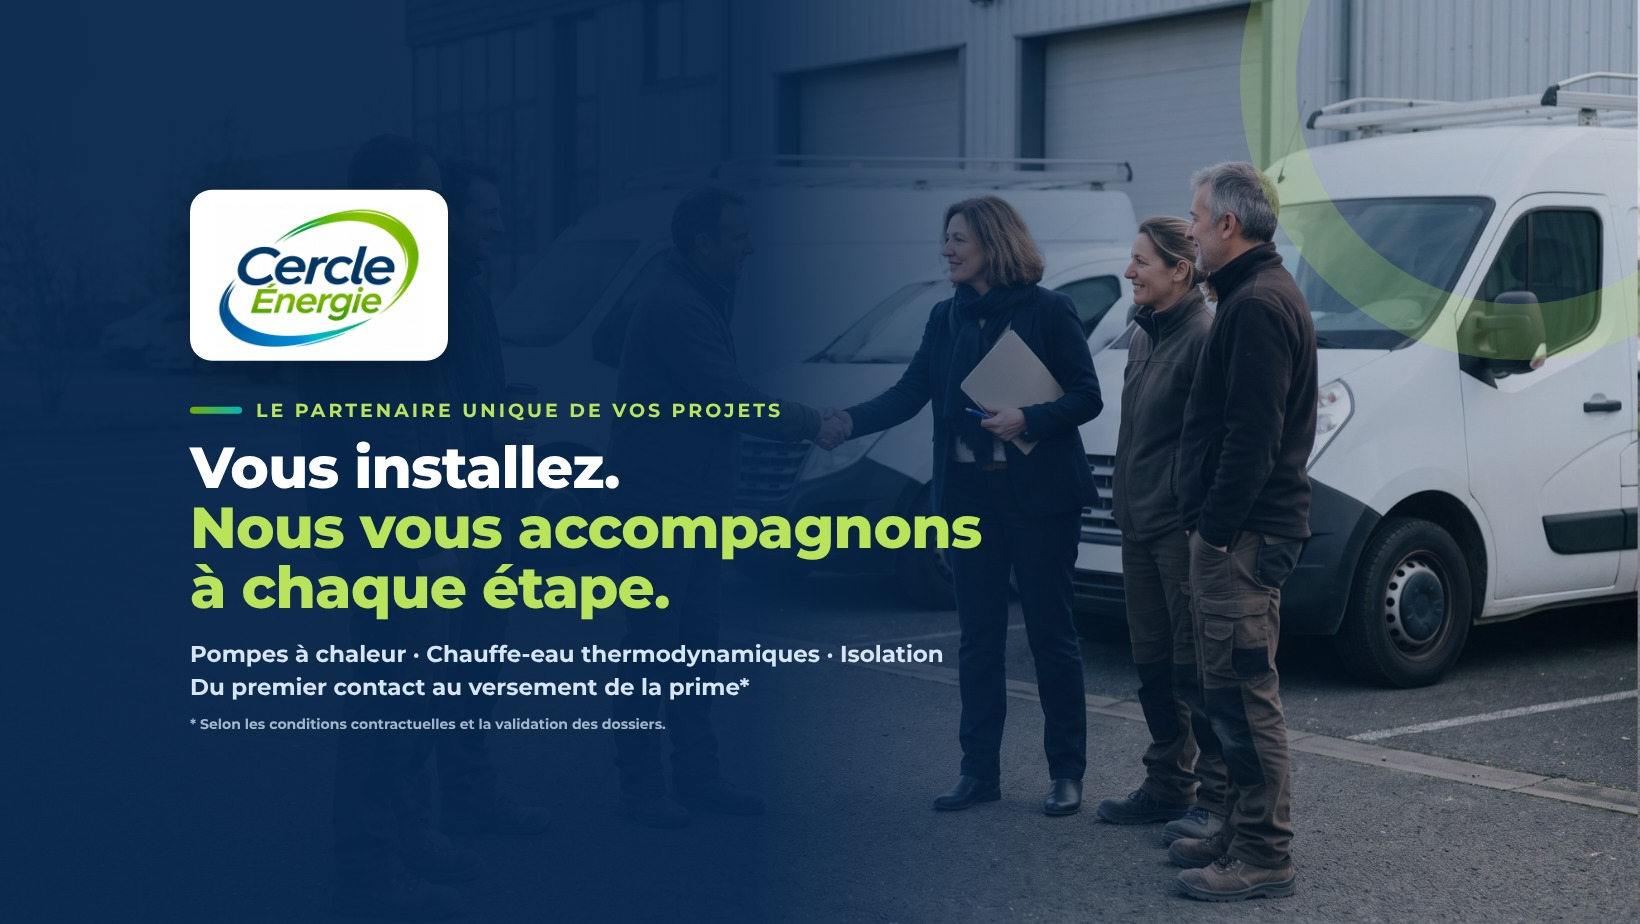
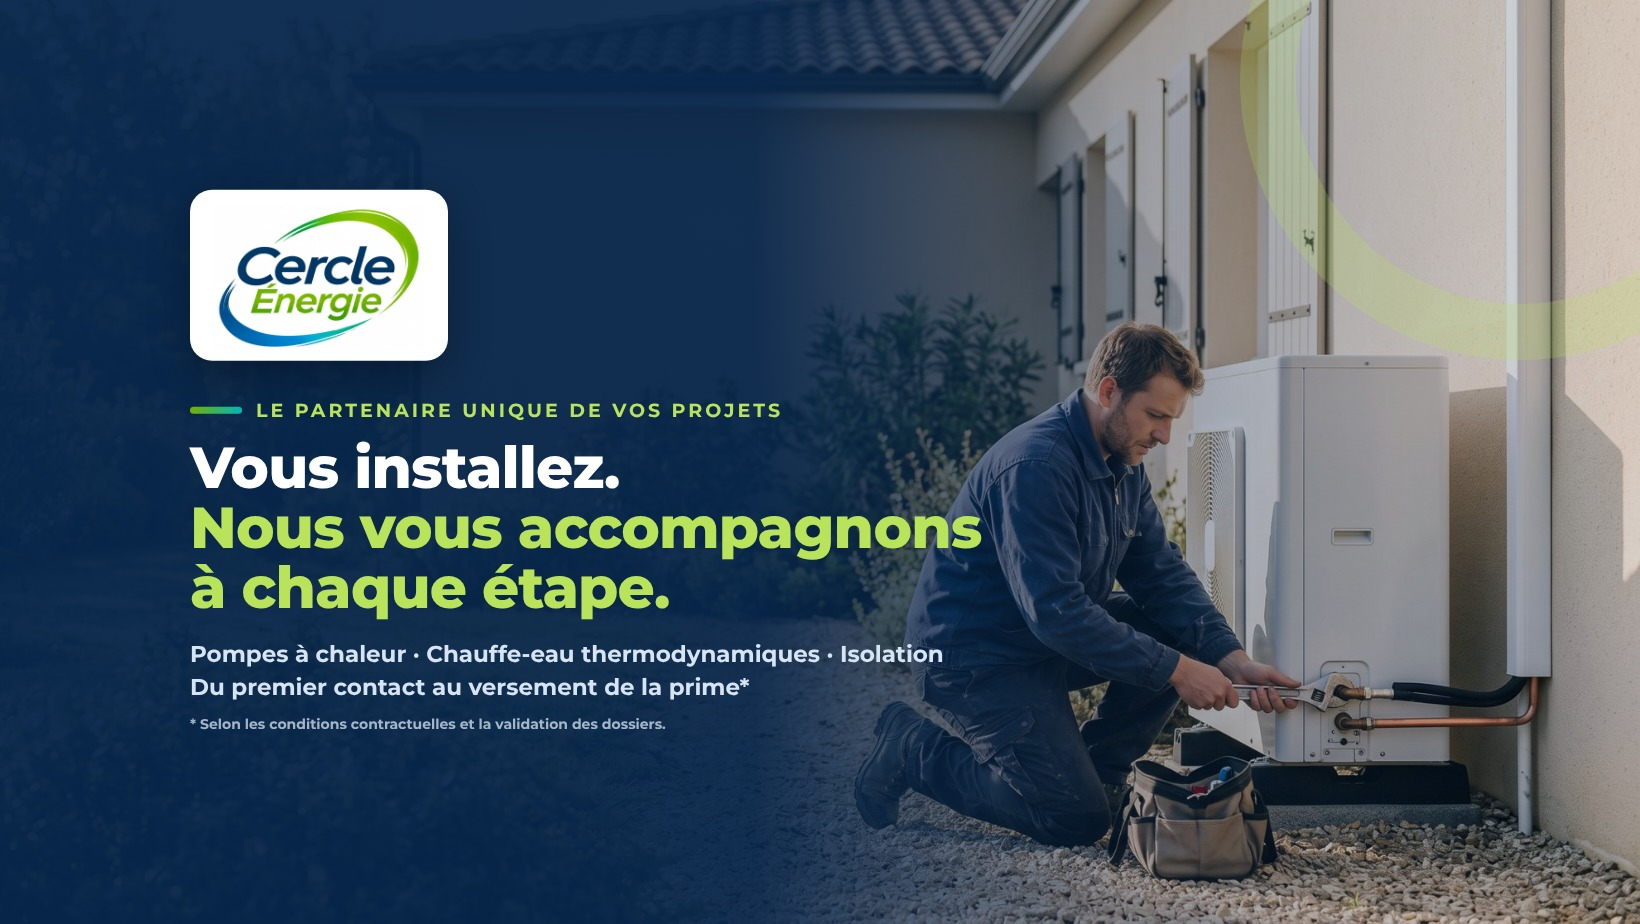
Cercle Énergie : page de validation et couverture Facebook alignées sur le brief
Claude-Session: https://claude.ai/code/session_01Pho4qtuLVHHsQKwafgs7Bf

diff --git a/clients/cercle-energie/sources/v3/overlay.html b/clients/cercle-energie/sources/v3/overlay.html
@@ -36,7 +36,7 @@ svg{display:block}
 .lt .k{font-weight:700;font-size:34px;letter-spacing:.16em;text-transform:uppercase;color:#B9E35A;margin-bottom:18px}
 .lt .h{font-weight:800;font-size:78px;line-height:1.1;letter-spacing:-.01em;text-shadow:0 4px 26px rgba(0,0,0,.4)}
 .lt .h em{font-style:normal;color:#B9E35A}
-.lt .sub{font-weight:600;font-size:34px;margin-bottom:22px;text-shadow:0 3px 18px rgba(0,0,0,.5)}
+.lt .sub{font-weight:600;font-size:38px;margin-bottom:22px;text-shadow:0 3px 18px rgba(0,0,0,.5)}
 .lt .sw{position:relative;height:90px}
 .lt .sw .h{position:absolute;left:0;top:0;white-space:nowrap}
 .bar{width:120px;height:8px;border-radius:8px;background:linear-gradient(90deg,var(--green),var(--teal));margin-bottom:26px}
@@ -64,7 +64,7 @@ svg{display:block}
 .vol .a{font-weight:800;font-size:62px;line-height:1.1;margin-top:6px;white-space:nowrap}
 .vol .a2{font-weight:800;font-size:54px;line-height:1.16;margin-top:6px;white-space:nowrap}
 .vol .a2 i{font-style:normal;color:var(--green);margin-right:18px}
-.vol .s{font-weight:600;font-size:34px;line-height:1.25;margin-top:12px;color:#2F4668;white-space:nowrap}
+.vol .s{font-weight:600;font-size:38px;line-height:1.25;margin-top:12px;color:#2F4668;white-space:nowrap}
 
 /* accroches et piliers */
 .lt .h span[data-in]{display:inline-block}

diff --git a/clients/cercle-energie/pub/page-facebook/couverture.html b/clients/cercle-energie/pub/page-facebook/couverture.html
@@ -2,7 +2,7 @@
 @font-face{font-family:M;font-weight:700;src:url(../../site/assets/fonts/montserrat-latin-700-normal.woff2)}
 @font-face{font-family:M;font-weight:800;src:url(../../site/assets/fonts/montserrat-latin-800-normal.woff2)}
 *{box-sizing:border-box;margin:0}body{width:1640px;height:924px;overflow:hidden;font-family:M,sans-serif;color:#fff;position:relative;background:#07264B}
-.bg{position:absolute;inset:0;background:url(../../site/assets/img/reseau.jpg) 115% 45%/cover}
+.bg{position:absolute;inset:0;background:url(../../site/assets/img/pac-installation.jpg) 100% 60%/cover}
 .sh{position:absolute;inset:0;background:linear-gradient(90deg,rgba(7,38,75,.96) 0%,rgba(7,38,75,.94) 46%,rgba(7,38,75,.4) 68%,rgba(7,38,75,.15) 100%)}
 .ring{position:absolute;right:-160px;top:-200px;width:560px;height:560px;border-radius:50%;border:56px solid rgba(185,227,90,.22)}
 .in{position:absolute;left:190px;top:50%;transform:translateY(-50%);width:800px}

diff --git a/clients/cercle-energie/sources/v3/build_base.py b/clients/cercle-energie/sources/v3/build_base.py
@@ -1,6 +1,6 @@
 # Montage des plans V3 (sans texte ni son) -> <travail>/out/base.mp4, 1920x1080, 24 i/s, 70 s.
 # usage : python3 build_base.py <dossier_travail> <dossier_matiere>
-#   <travail>/clips/ : reseau.mp4, qualification.mp4, fournisseur.mp4 (plans V2) ; visite.mp4, devis.mp4, chauffe_eau.mp4 (plans générés pour la V3)
+#   <travail>/clips/ : reseau.mp4, qualification.mp4, fournisseur.mp4, formation.mp4 (plans V2) ; visite.mp4, devis.mp4, chauffe_eau.mp4 (plans générés pour la V3)
 #   <matiere>/ce/clips/, <matiere>/hv/ : plans de la V1
 import subprocess, os, sys
 W,M=sys.argv[1],sys.argv[2]
@@ -21,14 +21,14 @@ T=[("01",C("H1"),0,0,2.7,1),                 # pose d'une pompe à chaleur
 ("07",None,0,15.7,17.6,1),                   # blanc : logo
 ("08",G("reseau"),0,17.6,22.4,1),            # titre : le partenaire unique
 ("09",None,0,22.4,26.1,1),                   # blanc : le cercle et ses huit étapes
-("10",H("7clients"),0.1,26.1,29.7,1),        # 01 opportunité + 02 qualification du projet
+("10",C("K13"),0.2,26.1,29.7,1),            # 01 opportunité + 02 qualification du projet
 ("11",G("visite"),0.1,29.7,32.8,1),          # 03 visite technique (plan généré V3)
 ("12",G("fournisseur"),0.1,32.8,35.9,1),     # 04 choix des équipements
 ("13",G("devis"),0.1,35.9,39.2,1),           # 05 devis et financement (plan généré V3)
 ("14",H("1hero"),0.1,39.2,42.7,1),           # 06 chantier et justificatifs
 ("15",G("qualification"),0.4,42.7,46.4,1),   # 07 montage et suivi CEE
 ("16",H("6remise"),0.2,46.4,50.4,1),         # 08 versement de la prime
-("17",C("K13"),0,50.4,55.8,1.1),             # accroche 1
+("17",G("formation"),0,50.4,55.8,1.1),       # accroche 1 : des règles expliquées
 ("18",C("K1"),0.3,55.8,60.2,1),              # accroche 2
 ("19",None,0,60.2,70.0,1)]                   # blanc : carton final
 lst=[]
